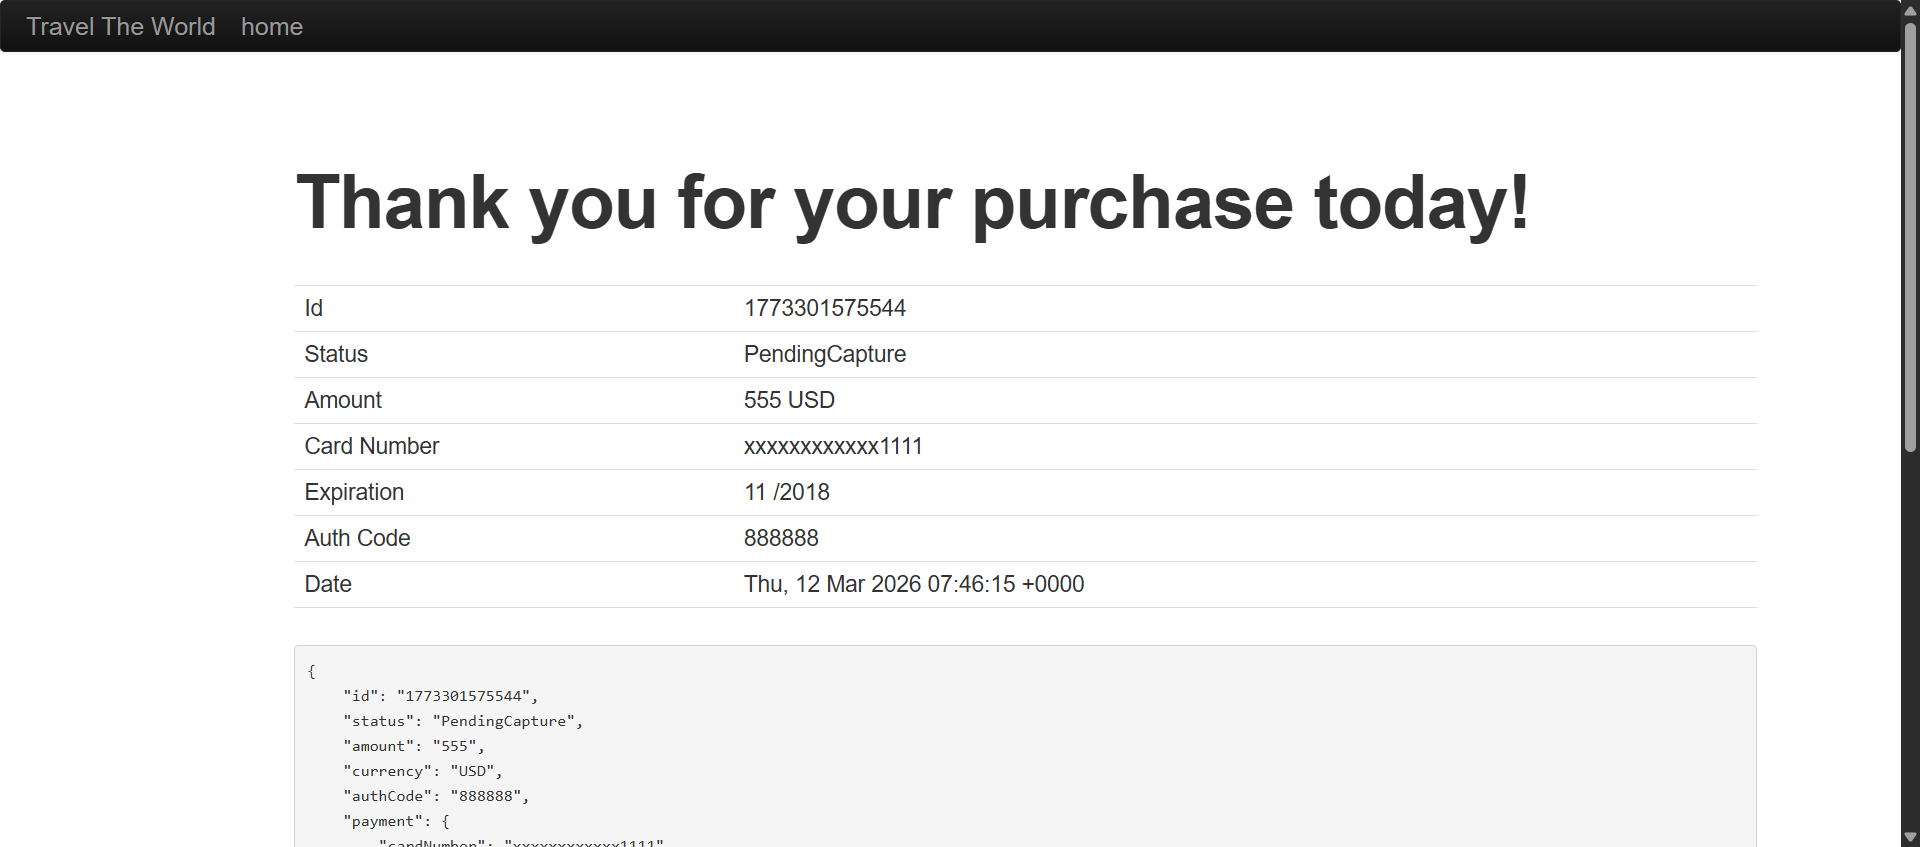
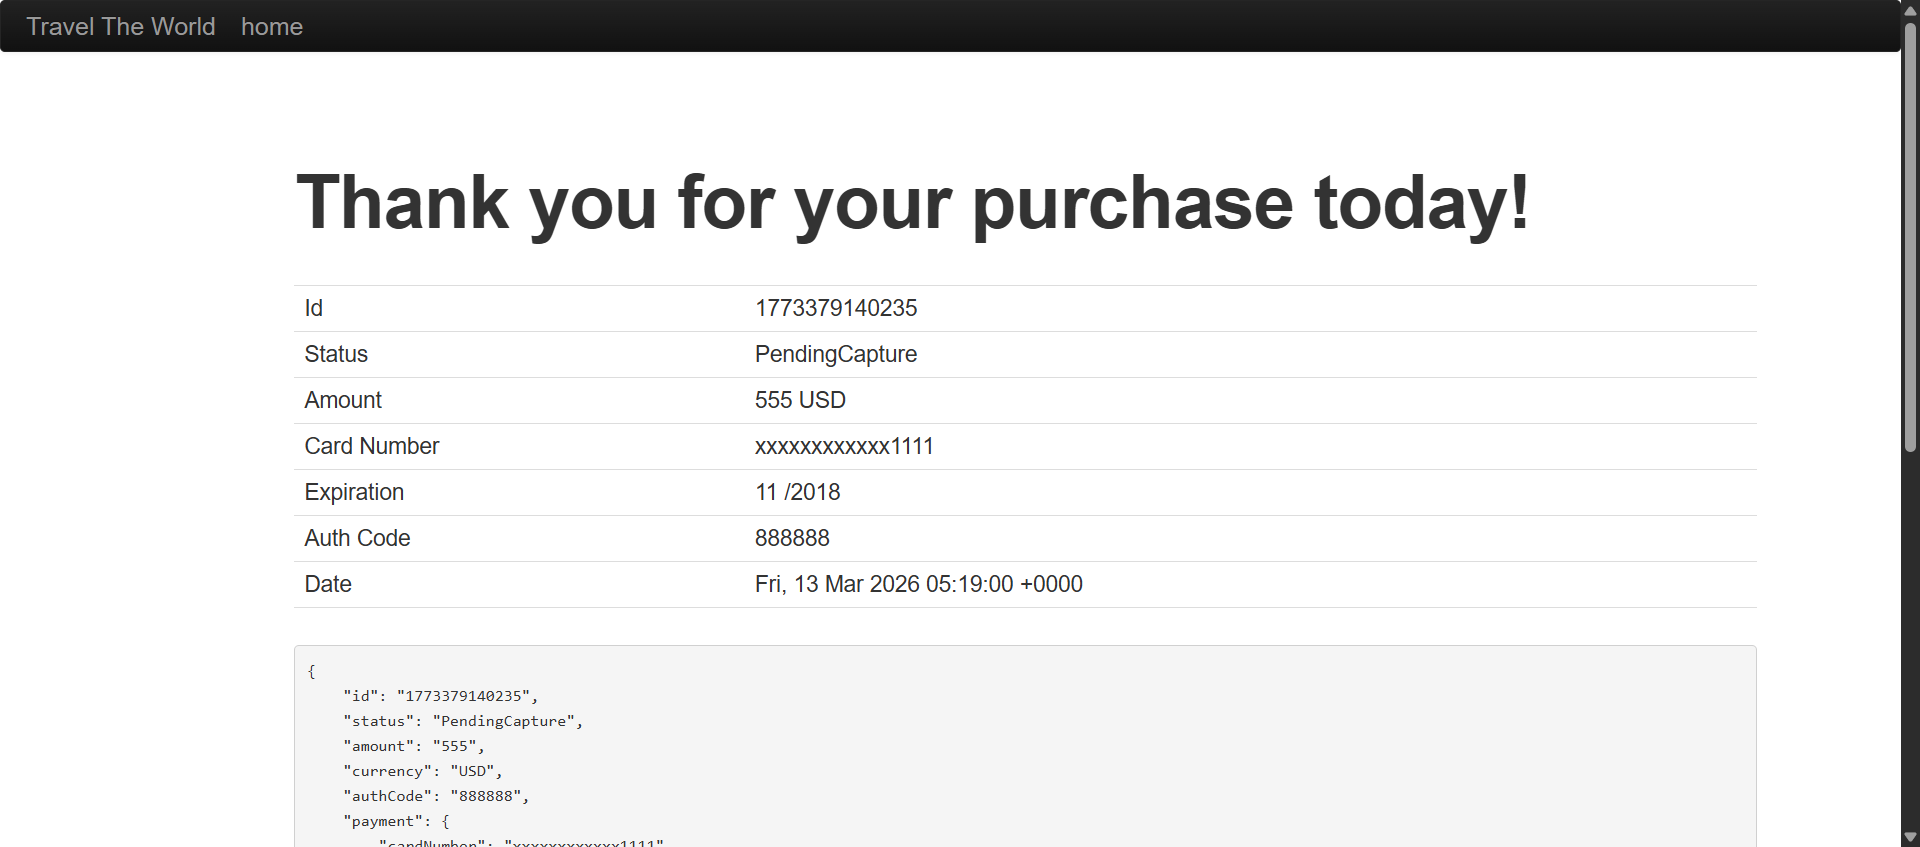
Last commit

diff --git a/test-output/Default suite/Default test.html b/test-output/Default suite/Default test.html
@@ -1,0 +1,150 @@
+<html>
+<head>
+<title>TestNG:  Default test</title>
+<link href="../testng.css" rel="stylesheet" type="text/css" />
+<link href="../my-testng.css" rel="stylesheet" type="text/css" />
+
+<style type="text/css">
+.log { display: none;} 
+.stack-trace { display: none;} 
+</style>
+<script type="text/javascript">
+<!--
+function flip(e) {
+  current = e.style.display;
+  if (current == 'block') {
+    e.style.display = 'none';
+    return 0;
+  }
+  else {
+    e.style.display = 'block';
+    return 1;
+  }
+}
+
+function toggleBox(szDivId, elem, msg1, msg2)
+{
+  var res = -1;  if (document.getElementById) {
+    res = flip(document.getElementById(szDivId));
+  }
+  else if (document.all) {
+    // this is the way old msie versions work
+    res = flip(document.all[szDivId]);
+  }
+  if(elem) {
+    if(res == 0) elem.innerHTML = msg1; else elem.innerHTML = msg2;
+  }
+
+}
+
+function toggleAllBoxes() {
+  if (document.getElementsByTagName) {
+    d = document.getElementsByTagName('div');
+    for (i = 0; i < d.length; i++) {
+      if (d[i].className == 'log') {
+        flip(d[i]);
+      }
+    }
+  }
+}
+
+// -->
+</script>
+
+</head>
+<body>
+<h2 align='center'>Default test</h2><table border='1' align="center">
+<tr>
+<td>Tests passed/Failed/Skipped:</td><td>0/1/0</td>
+</tr><tr>
+<td>Started on:</td><td>Thu Mar 12 23:48:58 IST 2026</td>
+</tr>
+<tr><td>Total time:</td><td>11 seconds (11773 ms)</td>
+</tr><tr>
+<td>Included groups:</td><td></td>
+</tr><tr>
+<td>Excluded groups:</td><td></td>
+</tr>
+</table><p/>
+<small><i>(Hover the method name to see the test class name)</i></small><p/>
+<table width='100%' border='1' class='invocation-failed'>
+<tr><td colspan='4' align='center'><b>FAILED TESTS</b></td></tr>
+<tr><td><b>Test method</b></td>
+<td><b>Attribute(s)</b></td>
+<td width="30%"><b>Exception</b></td>
+<td width="10%"><b>Time (seconds)</b></td>
+<td><b>Instance</b></td>
+</tr>
+<tr>
+<td title='tests.FlightBookingTest.bookFlightTest()'><b>bookFlightTest</b><br>Test class: tests.FlightBookingTest</td>
+<td><div><pre>java.lang.AssertionError: expected [true] but found [false]
+	at org.testng.Assert.fail(Assert.java:111)
+	at org.testng.Assert.failNotEquals(Assert.java:1578)
+	at org.testng.Assert.assertTrue(Assert.java:57)
+	at org.testng.Assert.assertTrue(Assert.java:67)
+	at tests.FlightBookingTest.bookFlightTest(FlightBookingTest.java:33)
+	at java.base/jdk.internal.reflect.DirectMethodHandleAccessor.invoke(DirectMethodHandleAccessor.java:104)
+	at java.base/java.lang.reflect.Method.invoke(Method.java:565)
+	at org.testng.internal.invokers.MethodInvocationHelper.invokeMethod(MethodInvocationHelper.java:139)
+	at org.testng.internal.invokers.TestInvoker.invokeMethod(TestInvoker.java:664)
+	at org.testng.internal.invokers.TestInvoker.invokeTestMethod(TestInvoker.java:228)
+	at org.testng.internal.invokers.MethodRunner.runInSequence(MethodRunner.java:63)
+	at org.testng.internal.invokers.TestInvoker$MethodInvocationAgent.invoke(TestInvoker.java:961)
+	at org.testng.internal.invokers.TestInvoker.invokeTestMethods(TestInvoker.java:201)
+	at org.testng.internal.invokers.TestMethodWorker.invokeTestMethods(TestMethodWorker.java:148)
+	at org.testng.internal.invokers.TestMethodWorker.run(TestMethodWorker.java:128)
+	at java.base/java.util.ArrayList.forEach(ArrayList.java:1604)
+	at org.testng.TestRunner.privateRun(TestRunner.java:819)
+	at org.testng.TestRunner.run(TestRunner.java:619)
+	at org.testng.SuiteRunner.runTest(SuiteRunner.java:443)
+	at org.testng.SuiteRunner.runSequentially(SuiteRunner.java:437)
+	at org.testng.SuiteRunner.privateRun(SuiteRunner.java:397)
+	at org.testng.SuiteRunner.run(SuiteRunner.java:336)
+	at org.testng.SuiteRunnerWorker.runSuite(SuiteRunnerWorker.java:52)
+	at org.testng.SuiteRunnerWorker.run(SuiteRunnerWorker.java:95)
+	at org.testng.TestNG.runSuitesSequentially(TestNG.java:1301)
+	at org.testng.TestNG.runSuitesLocally(TestNG.java:1228)
+	at org.testng.TestNG.runSuites(TestNG.java:1134)
+	at org.testng.TestNG.run(TestNG.java:1101)
+	at org.testng.remote.AbstractRemoteTestNG.run(AbstractRemoteTestNG.java:115)
+	at org.testng.remote.RemoteTestNG.initAndRun(RemoteTestNG.java:293)
+	at org.testng.remote.RemoteTestNG.main(RemoteTestNG.java:91)
+</pre></div><a href='#' onClick='toggleBox("stack-trace408909888", this, "Click to show all stack frames", "Click to hide stack frames")'>Click to show all stack frames</a>
+<div class='stack-trace' id='stack-trace408909888'><pre>java.lang.AssertionError: expected [true] but found [false]
+	at org.testng.Assert.fail(Assert.java:111)
+	at org.testng.Assert.failNotEquals(Assert.java:1578)
+	at org.testng.Assert.assertTrue(Assert.java:57)
+	at org.testng.Assert.assertTrue(Assert.java:67)
+	at tests.FlightBookingTest.bookFlightTest(FlightBookingTest.java:33)
+	at java.base/jdk.internal.reflect.DirectMethodHandleAccessor.invoke(DirectMethodHandleAccessor.java:104)
+	at java.base/java.lang.reflect.Method.invoke(Method.java:565)
+	at org.testng.internal.invokers.MethodInvocationHelper.invokeMethod(MethodInvocationHelper.java:139)
+	at org.testng.internal.invokers.TestInvoker.invokeMethod(TestInvoker.java:664)
+	at org.testng.internal.invokers.TestInvoker.invokeTestMethod(TestInvoker.java:228)
+	at org.testng.internal.invokers.MethodRunner.runInSequence(MethodRunner.java:63)
+	at org.testng.internal.invokers.TestInvoker$MethodInvocationAgent.invoke(TestInvoker.java:961)
+	at org.testng.internal.invokers.TestInvoker.invokeTestMethods(TestInvoker.java:201)
+	at org.testng.internal.invokers.TestMethodWorker.invokeTestMethods(TestMethodWorker.java:148)
+	at org.testng.internal.invokers.TestMethodWorker.run(TestMethodWorker.java:128)
+	at java.base/java.util.ArrayList.forEach(ArrayList.java:1604)
+	at org.testng.TestRunner.privateRun(TestRunner.java:819)
+	at org.testng.TestRunner.run(TestRunner.java:619)
+	at org.testng.SuiteRunner.runTest(SuiteRunner.java:443)
+	at org.testng.SuiteRunner.runSequentially(SuiteRunner.java:437)
+	at org.testng.SuiteRunner.privateRun(SuiteRunner.java:397)
+	at org.testng.SuiteRunner.run(SuiteRunner.java:336)
+	at org.testng.SuiteRunnerWorker.runSuite(SuiteRunnerWorker.java:52)
+	at org.testng.SuiteRunnerWorker.run(SuiteRunnerWorker.java:95)
+	at org.testng.TestNG.runSuitesSequentially(TestNG.java:1301)
+	at org.testng.TestNG.runSuitesLocally(TestNG.java:1228)
+	at org.testng.TestNG.runSuites(TestNG.java:1134)
+	at org.testng.TestNG.run(TestNG.java:1101)
+	at org.testng.remote.AbstractRemoteTestNG.run(AbstractRemoteTestNG.java:115)
+	at org.testng.remote.RemoteTestNG.initAndRun(RemoteTestNG.java:293)
+	at org.testng.remote.RemoteTestNG.main(RemoteTestNG.java:91)
+</pre></div></td>
+<td>4</td>
+<td>tests.FlightBookingTest@6580cfdd</td></tr>
+</table><p>
+</body>
+</html>

diff --git a/test-output/emailable-report.html b/test-output/emailable-report.html
@@ -9,9 +9,9 @@
 <table>
 <tr><th>Test</th><th># Passed</th><th># Skipped</th><th># Retried</th><th># Failed</th><th>Time (ms)</th><th>Included Groups</th><th>Excluded Groups</th></tr>
 <tr><th colspan="8">Flight Booking Suite</th></tr>
-<tr><td><a href="#t0">Flight Test</a></td><td class="num">1</td><td class="num">0</td><td class="num">0</td><td class="num">0</td><td class="num">8,526</td><td></td><td></td></tr>
+<tr><td><a href="#t0">Flight Test</a></td><td class="num">1</td><td class="num">0</td><td class="num">0</td><td class="num">0</td><td class="num">10,757</td><td></td><td></td></tr>
 </table>
-<table id='summary'><thead><tr><th>Class</th><th>Method</th><th>Start</th><th>Time (ms)</th></tr></thead><tbody><tr><th colspan="4">Flight Booking Suite</th></tr></tbody><tbody id="t0"><tr><th colspan="4">Flight Test &#8212; passed</th></tr><tr class="passedeven"><td rowspan="1">tests.FlightBookingTest</td><td><a href="#m0">bookFlightTest</a></td><td rowspan="1">1773301569964</td><td rowspan="1">4427</td></tr></tbody>
+<table id='summary'><thead><tr><th>Class</th><th>Method</th><th>Start</th><th>Time (ms)</th></tr></thead><tbody><tr><th colspan="4">Flight Booking Suite</th></tr></tbody><tbody id="t0"><tr><th colspan="4">Flight Test &#8212; passed</th></tr><tr class="passedeven"><td rowspan="1">tests.FlightBookingTest</td><td><a href="#m0">bookFlightTest</a></td><td rowspan="1">1773379136895</td><td rowspan="1">3781</td></tr></tbody>
 </table>
 <h2>Flight Test</h2><h3 id="m0">tests.FlightBookingTest#bookFlightTest</h3><table class="result"><tr><th class="invisible"/></tr></table><p class="totop"><a href="#summary">back to summary</a></p>
 </body>

diff --git a/test-output/index.html b/test-output/index.html
@@ -189,12 +189,12 @@ data.addRows(1);
 data.setCell(0, 0, 0)
 data.setCell(0, 1, 'bookFlightTest')
 data.setCell(0, 2, 'tests.FlightBookingTest')
-data.setCell(0, 3, 4427);
+data.setCell(0, 3, 3781);
 window.suiteTableData['Flight_Booking_Suite']= { tableData: data, tableDiv: 'times-div-Flight_Booking_Suite'}
 return data;
 }
               </script>
-              <span class="suite-total-time">Total running time: 4 seconds</span>
+              <span class="suite-total-time">Total running time: 3 seconds</span>
               <div id="times-div-Flight_Booking_Suite">
               </div> <!-- times-div-Flight_Booking_Suite -->
             </div> <!-- times-div -->
@@ -227,11 +227,11 @@ return data;
               </div> <!-- configuration-method before -->
               <div class="test-method">
                 <span class="method-name">bookFlightTest</span>
-                <span class="method-start">3565 ms</span>
+                <span class="method-start">6428 ms</span>
               </div> <!-- test-method -->
               <div class="configuration-method after">
                 <span class="method-name">tearDown([TestResult name=bookFlightTest status=SUCCESS method=FlightBookingTest.bookFlightTest()[pri:0, inst...)</span>
-                <span class="method-start">8005 ms</span>
+                <span class="method-start">10213 ms</span>
               </div> <!-- configuration-method after -->
           </div> <!-- main-panel-content rounded-window-bottom -->
         </div> <!-- panel -->

diff --git a/test-output/Flight Booking Suite/Flight Test.html b/test-output/Flight Booking Suite/Flight Test.html
@@ -57,9 +57,9 @@ function toggleAllBoxes() {
 <tr>
 <td>Tests passed/Failed/Skipped:</td><td>1/0/0</td>
 </tr><tr>
-<td>Started on:</td><td>Thu Mar 12 13:16:06 IST 2026</td>
+<td>Started on:</td><td>Fri Mar 13 10:48:50 IST 2026</td>
 </tr>
-<tr><td>Total time:</td><td>8 seconds (8526 ms)</td>
+<tr><td>Total time:</td><td>10 seconds (10757 ms)</td>
 </tr><tr>
 <td>Included groups:</td><td></td>
 </tr><tr>
@@ -78,7 +78,7 @@ function toggleAllBoxes() {
 <tr>
 <td title='tests.FlightBookingTest.bookFlightTest()'><b>bookFlightTest</b><br>Test class: tests.FlightBookingTest</td>
 <td></td>
-<td>4</td>
+<td>3</td>
 <td>tests.FlightBookingTest@2e4b8173</td></tr>
 </table><p>
 </body>

diff --git a/src/test/java/tests/FlightBookingTest.java b/src/test/java/tests/FlightBookingTest.java
@@ -1,5 +1,11 @@
 package tests;
 
+import java.time.Duration;
+
+import org.openqa.selenium.By;
+import org.openqa.selenium.WebElement;
+import org.openqa.selenium.support.ui.ExpectedConditions;
+import org.openqa.selenium.support.ui.WebDriverWait;
 import org.testng.Assert;
 import org.testng.annotations.Test;
 
@@ -15,24 +21,24 @@ public class FlightBookingTest extends BaseTest {
 
         //Home Page
         HomePage home = new HomePage(driver);
-        home.selectCities();// Select departure and destination 
+        home.selectCities();
        
        
-        FlightsPage flights = new FlightsPage(driver); //Flights Page
-        flights.selectFlight();// Select first available flight
+        FlightsPage flights = new FlightsPage(driver);
+        flights.selectFlight();
        
         
-        PurchasePage purchase = new PurchasePage(driver);//Purchase Page
+        PurchasePage purchase = new PurchasePage(driver);
         purchase.bookFlight();
       
+        WebDriverWait wait = new WebDriverWait(driver, Duration.ofSeconds(10));
 
-        String confirmation = driver.getPageSource();//Verify confirmation message
+        WebElement confirmation = wait.until(
+                ExpectedConditions.visibilityOfElementLocated(
+                By.xpath("//h1[contains(text(),'Thank you for your purchase')]")));
+        Assert.assertTrue(confirmation.getText().contains("Thank you for your purchase"));
+       
 
-        Assert.assertTrue(
-                confirmation.contains("Thank you for your purchase"),
-                "Flight booking failed!"
-        );
-
-        System.out.println("Flight Booked Successfully");
+        System.out.println("Congratulations!,Flight Booked Successfully");
     }
 }

diff --git a/src/test/java/base/BaseTest.java b/src/test/java/base/BaseTest.java
@@ -6,7 +6,8 @@ import org.openqa.selenium.chrome.ChromeDriver;
 import org.testng.annotations.BeforeMethod;
 import org.testng.annotations.AfterMethod;
 import io.github.bonigarcia.wdm.WebDriverManager;
-import utilities.ScreenshotUtil;
+import utils.ScreenshotUtil;
+
 import org.testng.ITestResult;
 
 public class BaseTest {
@@ -16,8 +17,8 @@ public class BaseTest {
     @BeforeMethod
     public void setup() {
 
-        WebDriverManager.chromedriver().setup();//downloads correct ChromeDriver
-
+        WebDriverManager.chromedriver().setup();
+      //downloads correct ChromeDriver
         driver = new ChromeDriver();
         driver.manage().window().maximize();
         driver.get("https://blazedemo.com/");
@@ -33,7 +34,6 @@ public class BaseTest {
         if(result.getStatus() == ITestResult.FAILURE) {
             ScreenshotUtil.captureScreenshot(driver, result.getName()+"_FAIL");
         }
-
         if(driver != null) {
             driver.quit();
         }

diff --git a/src/test/java/pages/HomePage.java b/src/test/java/pages/HomePage.java
@@ -23,7 +23,8 @@ public class HomePage {
 
     public void selectCities() {
 
-       wait.until(ExpectedConditions.visibilityOfElementLocated(departure));//Wait until departure dropdown becomes visible.
+       wait.until(ExpectedConditions.visibilityOfElementLocated(departure));
+       //Wait til departure dropdown visible
         Select dep = new Select(driver.findElement(departure));
         dep.selectByVisibleText("Paris");
        

diff --git a/src/test/java/utils/ScreenshotUtil.java b/src/test/java/utils/ScreenshotUtil.java
@@ -1,4 +1,4 @@
-package utilities;
+package utils;
 
 import java.io.File;
 import java.io.IOException;
